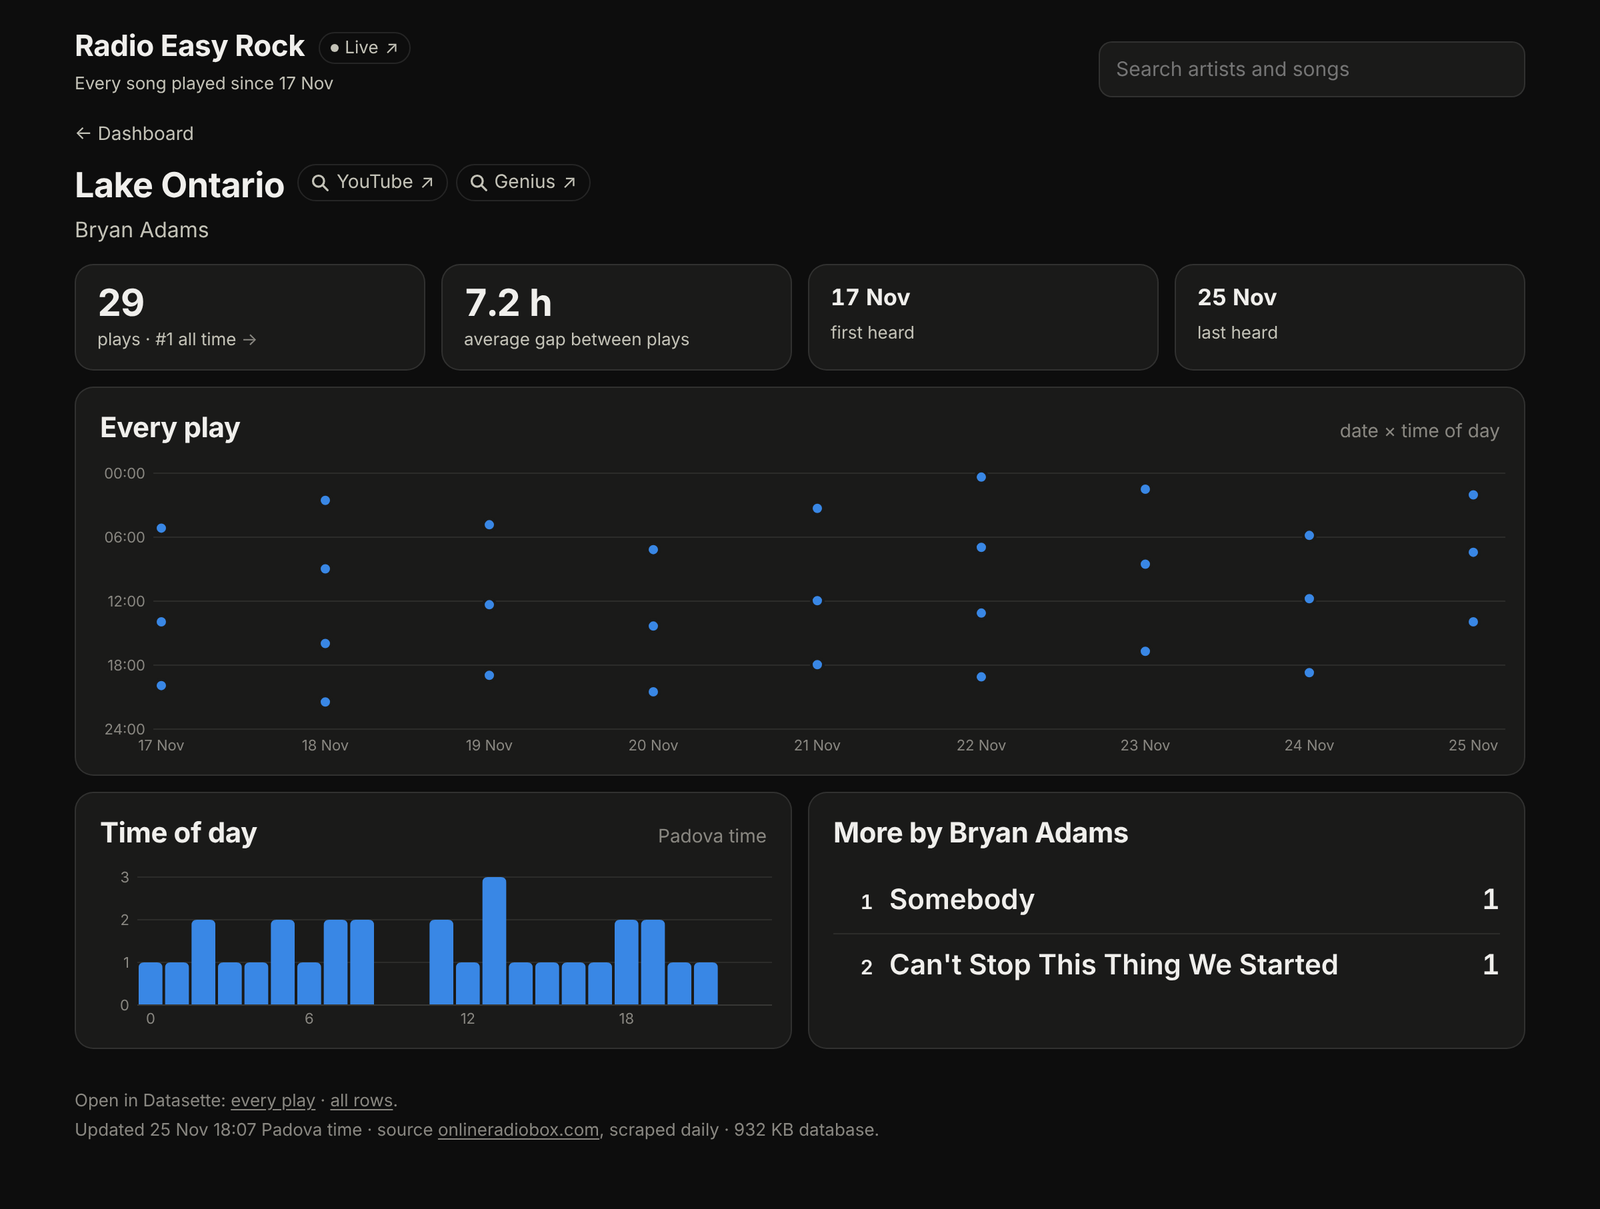
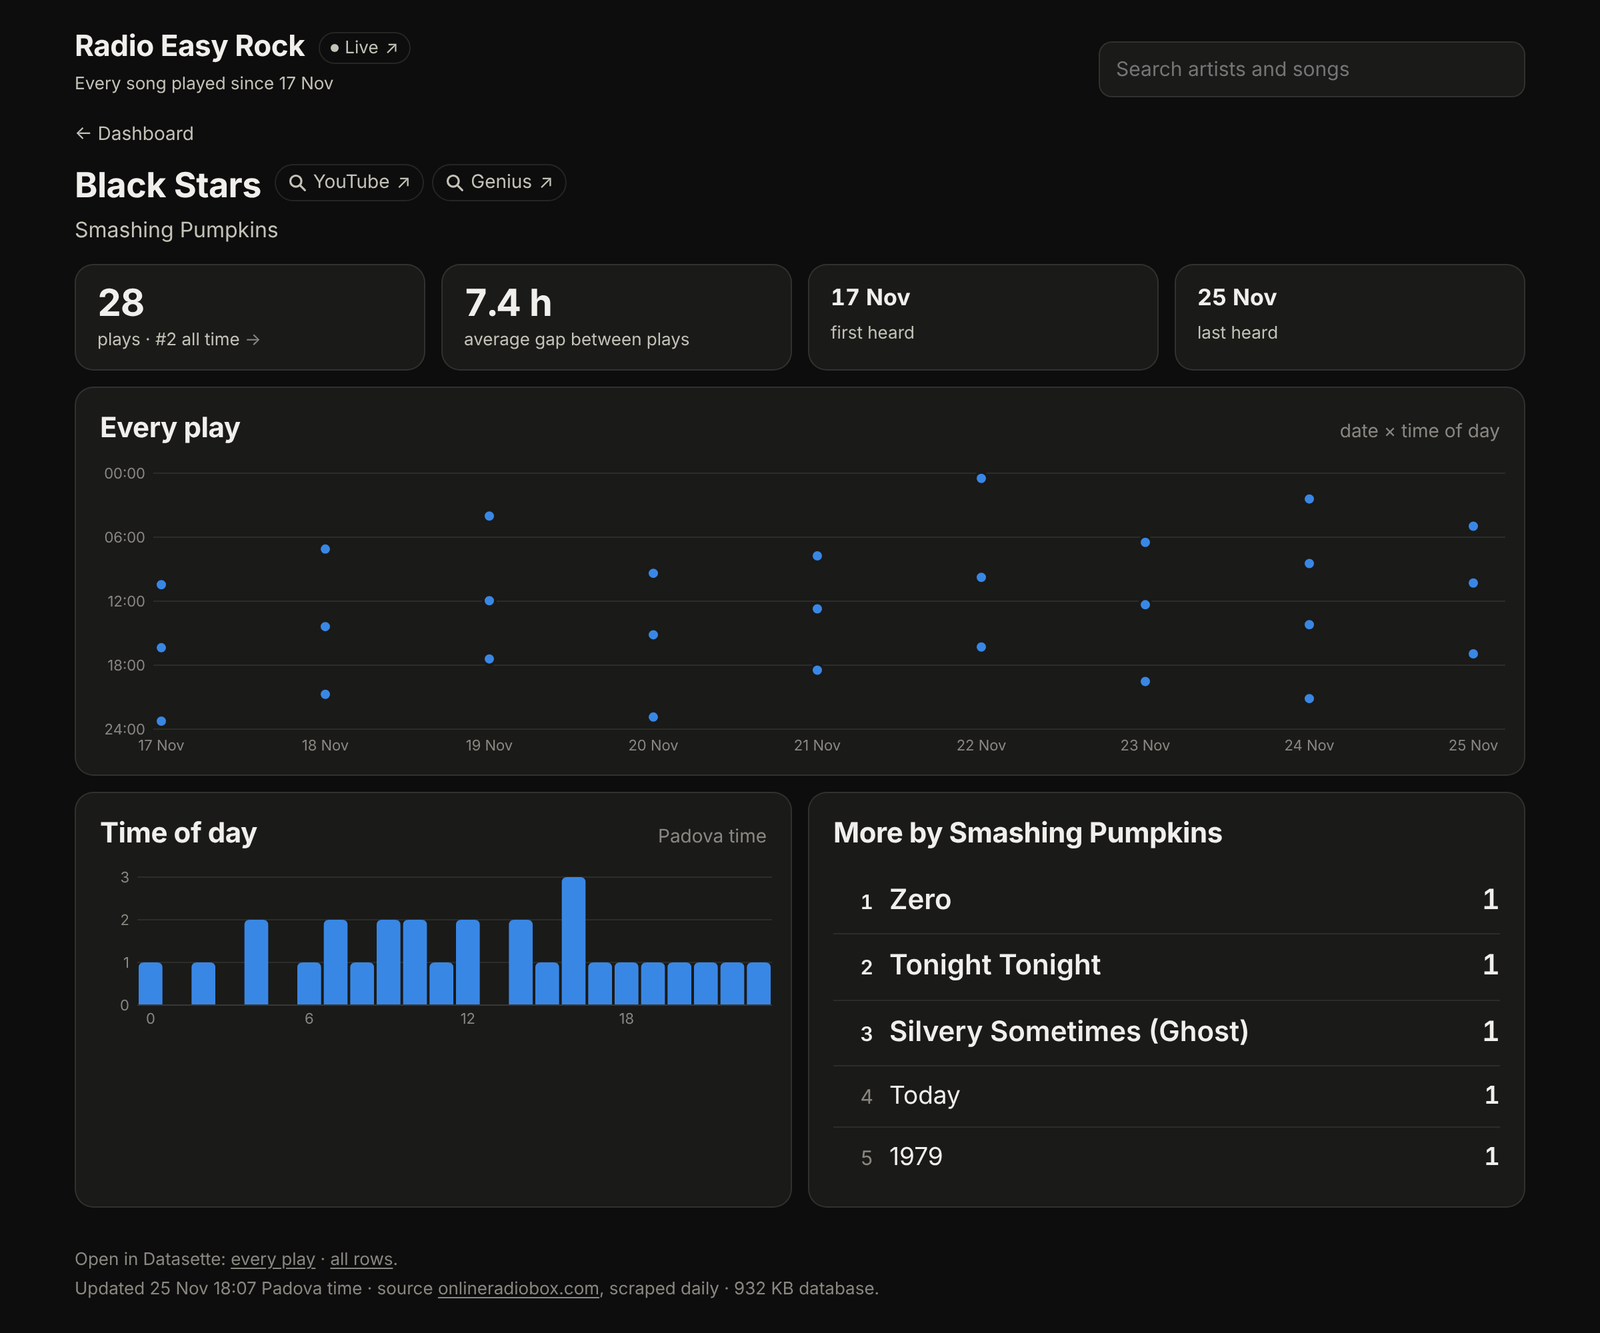
One more screenshot

diff --git a/README.md b/README.md
@@ -3,12 +3,14 @@
 <table>
 <tr>
 <td width="55%" valign="top"><a href="https://insipid.github.io/easyrock-datasette/#p=all"><img src="docs/dashboard.png" alt="The dashboard: a sentence summarising the period, top songs and artists, new songs, and a weekday-by-hour heatmap"></a></td>
-<td width="45%" valign="top"><a href="https://insipid.github.io/easyrock-datasette/#song=66"><img src="docs/song.png" alt="A song page in dark mode: play count, average gap between plays, and every play plotted by date and time of day"></a></td>
+<td width="45%" valign="top"><a href="https://insipid.github.io/easyrock-datasette/#song=133"><img src="docs/song.png" alt="The song page for Black Stars by Smashing Pumpkins, in dark mode: play count, average gap between plays, and every play plotted by date and time of day"></a>
+<br><br>
+<a href="https://insipid.github.io/easyrock-datasette/#artist=Smashing%20Pumpkins"><img src="docs/artist.png" alt="The artist page for Smashing Pumpkins: plays per day and a sortable table of their songs"></a></td>
 </tr>
 </table>
 
 **Live at [insipid.github.io/easyrock-datasette](https://insipid.github.io/easyrock-datasette/)**, updated daily.
-Above: the [dashboard](https://insipid.github.io/easyrock-datasette/#p=all) and a [song page](https://insipid.github.io/easyrock-datasette/#song=66) (in dark mode).
+Above: the [dashboard](https://insipid.github.io/easyrock-datasette/#p=all), the song page for [Black Stars](https://insipid.github.io/easyrock-datasette/#song=133) (in dark mode), and the artist page for [Smashing Pumpkins](https://insipid.github.io/easyrock-datasette/#artist=Smashing%20Pumpkins).
 
 A running archive of every song played on [Radio Easy Rock](https://www.radioeasyrock.it/) (Padova),
 scraped daily from [onlineradiobox](https://onlineradiobox.com/it/easyrock/playlist/), with a static dashboard
